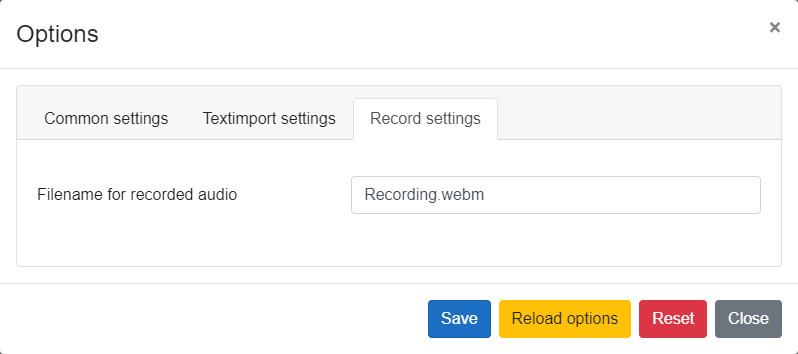
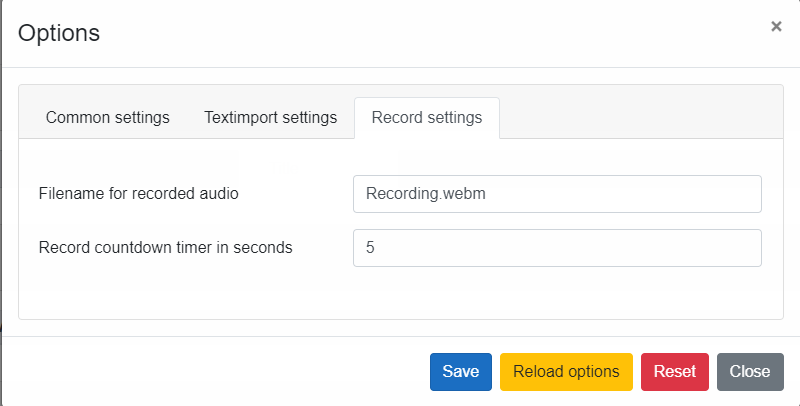
Updated help for countdown timer

diff --git a/AudioCuesheetEditor/Model/Options/ApplicationOptions.cs b/AudioCuesheetEditor/Model/Options/ApplicationOptions.cs
@@ -112,6 +112,10 @@ namespace AudioCuesheetEditor.Model.Options
             {
                 ProjectFileName = Projectfile.DefaultFileName;
             }
+            if (RecordCountdownTimer.HasValue == false)
+            {
+                RecordCountdownTimer = 5;
+            }
         }
         public String CuesheetFileName { get; set; }
         public String CultureName { get; set; }
